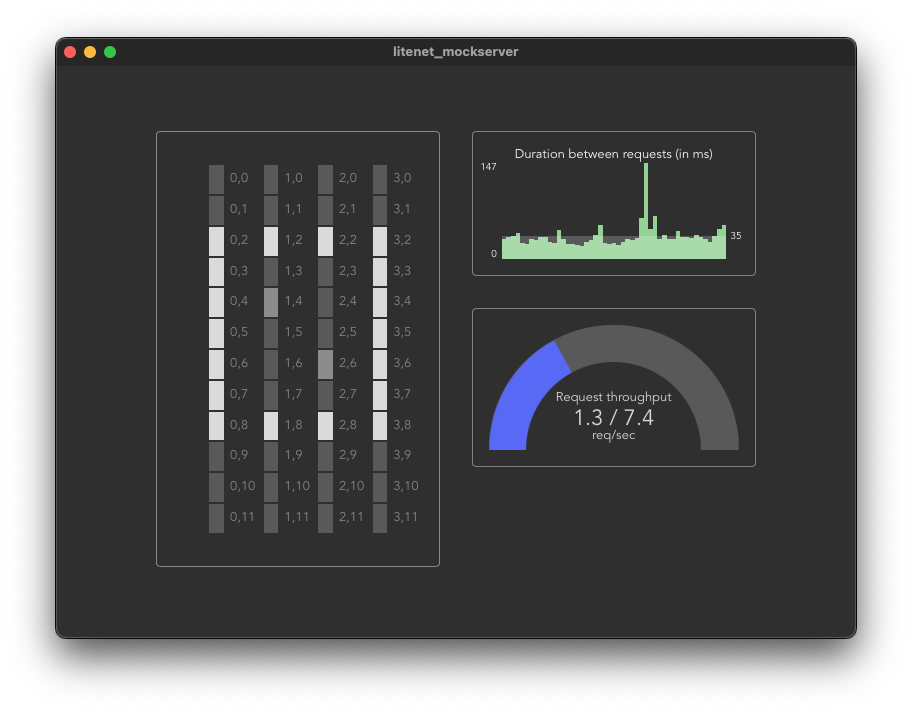
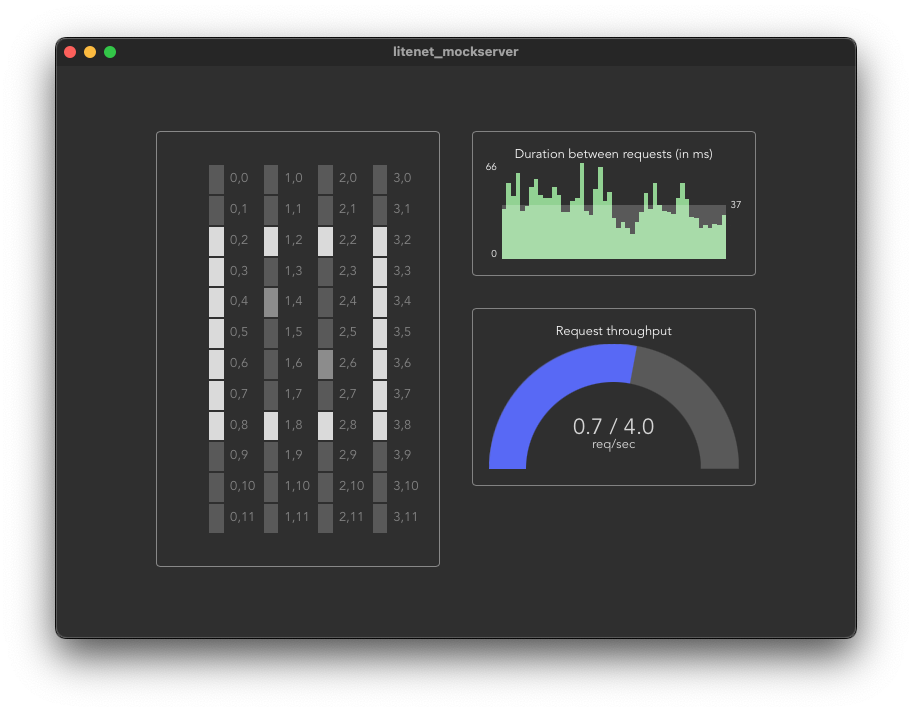
chore: style adaptions for gauge

Changed region(s): [[0.5219, 0.4326, 0.8289, 0.6798], [0.5526, 0.2472, 0.7982, 0.3399]]

diff --git a/src/lib/Gauge.svelte b/src/lib/Gauge.svelte
@@ -4,40 +4,42 @@
 </script>
 
 <style lang="scss">
-.cmp-gauge { position: relative; margin: 1rem; overflow: hidden; text-align: center; padding: 1rem;
-      border: 1px solid rgba(255,255,255,0.4); border-radius: 4px;
+.cmp-gauge { position: relative; display: flex; flex-direction: column; margin: 1rem; text-align: center; padding: 1rem;
+    border: 1px solid rgba(255,255,255,0.4); border-radius: 4px;
+  .sub-title { font-size: 0.8em; margin-bottom: 0.6em; line-height: 1em; }
+  .cont-gauge { position: relative; overflow: hidden;
     &:after { content: ""; display: block; padding-bottom: 50%; }
-
-  .sub-bg-indicator { position: absolute; width: calc(100% - 2rem); height: calc(100% - 2rem); top: 1rem;
-      border-radius: 2000px 2000px 0px 0px; background-color: rgba(255,255,255,.2); overflow: hidden;
-    .sub-indicator { position: absolute; background-color: #5664F9; width: 100%; height: 100%; top: 100%;
-      border-radius: 0px 0px 2000px 2000px; transform-origin: center top; transition: all 0.3s ease-in-out;
+    .sub-bg-indicator { position: absolute; width: 100%; height: 100%;
+        border-radius: 2000px 2000px 0px 0px; background-color: rgba(255,255,255,.2); overflow: hidden;
+      .sub-indicator { position: absolute; background-color: #5664F9; width: 100%; height: 100%; top: 100%;
+        border-radius: 0px 0px 2000px 2000px; transform-origin: center top; transition: all 0.3s ease-in-out;
+      }
     }
-  }
-  .sub-bg-text { position: absolute; background-color: #2f2f2f; width: 70%; height: 70%; left: 15%;
-    bottom: 0rem; border-radius: 2000px 2000px 0px 0px;
-  }
-  .gauge-data { color: rgba(255,255,255,.8); font-size: 0.7em; line-height: 25px;
-      position: absolute; width: 100%; height: 100%; top: 53%; margin-left: auto;
-      margin-right: auto; transition: all 0.2s ease-out;
-
+    .sub-bg-text { position: absolute; background-color: #2f2f2f; width: 70%; height: 70%; left: 15%;
+      bottom: 0rem; border-radius: 2000px 2000px 0px 0px;
+    }
+    .gauge-data { color: rgba(255,255,255,.8); font-size: 0.7em; line-height: 25px;
+        position: absolute; width: 100%; height: 100%; top: 57%; margin-left: auto;
+        margin-right: auto; transition: all 0.2s ease-out;
       .data { line-height: 1em; margin: 0;
-        &.title { font-size: 1.2em; margin-bottom: 0.2em; }
-        &#value{ font-size: 2em; }
+        &#value { font-size: 2em; }
         &.unit { font-size: 1.2em; }
       }
+    }
   }
 }
 </style>
 
 <div class="cmp-gauge">
+  <div class="data sub-title">Request throughput</div>
+  <div class="cont-gauge">
     <div class="sub-bg-indicator">
       <div class="sub-indicator" style="transform: rotate({$current / $max * 0.5}turn)"></div>
       <div class="sub-bg-text"></div>
       <div class="gauge-data">
-        <div class="data title">Request throughput</div>
         <div class="data" id="value">{format($current)} / {format($max)}</div>
         <div class="data unit">req/sec</div>
       </div>
     </div>
+  </div>
 </div>
